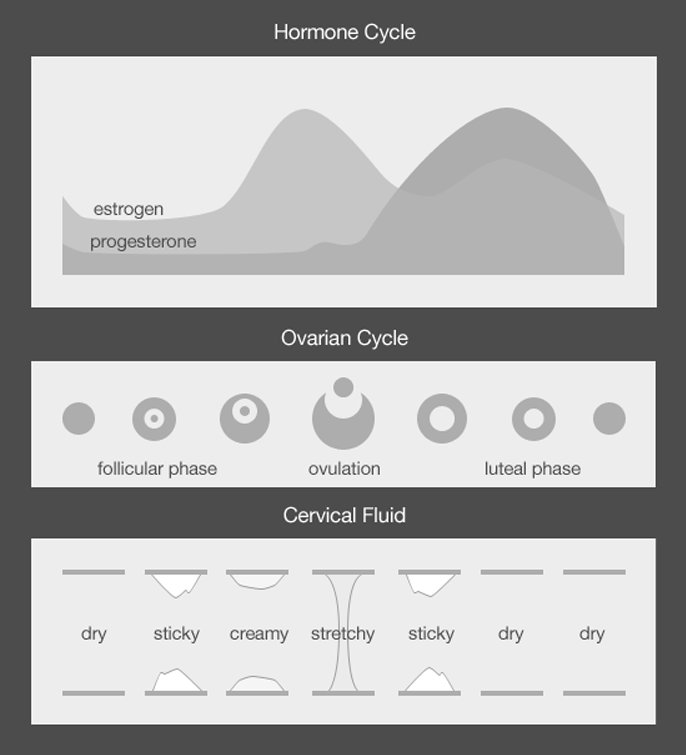
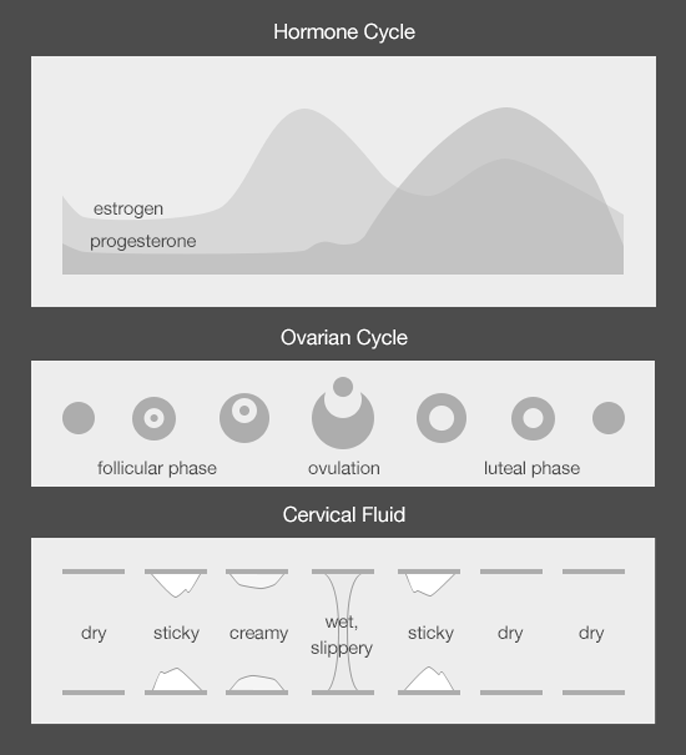
updated images on CF website to reflect slippery and non-slippery fluid

diff --git a/_site/index.html b/_site/index.html
@@ -106,7 +106,7 @@
 					</div>
 					<p class="skinny">The second half of your menstrual cycle is called the luteal phase, and is governed primarily by the hormone <a class="textLink" target="_blank" href="http://en.wikipedia.org/wiki/Progesterone">progesterone</a>. After you ovulate, the empty ovarian follicle that released the ovum will take on a new role.</p>
 					<p class="skinny">The empty follicle becomes a structure called the <a class="textLink" target="_blank" href="http://en.wikipedia.org/wiki/Corpus_luteum">corpus luteum</a>, which produces the hormone progesterone. Progesterone dries up slippery cervical fluid and <a class="textLink" target="_blank" href="http://www.livestrong.com/article/292193-effects-of-progesterone-on-the-uterine-lining/">thickens the lining of the uterus</a> in case the ovum is fertilized and a pregnancy occurs.</p>
-					<p class="skinny">Your cervical fluid may be sticky or creamy after ovulation, but it will no longer be wet and slippery.</p>
+					<p class="skinny">Your cervical fluid may be sticky, creamy, or even a little bit stretchy after ovulation, but it will no longer be wet and slippery.</p>
 				</div>
 			</div>
 		</div>
